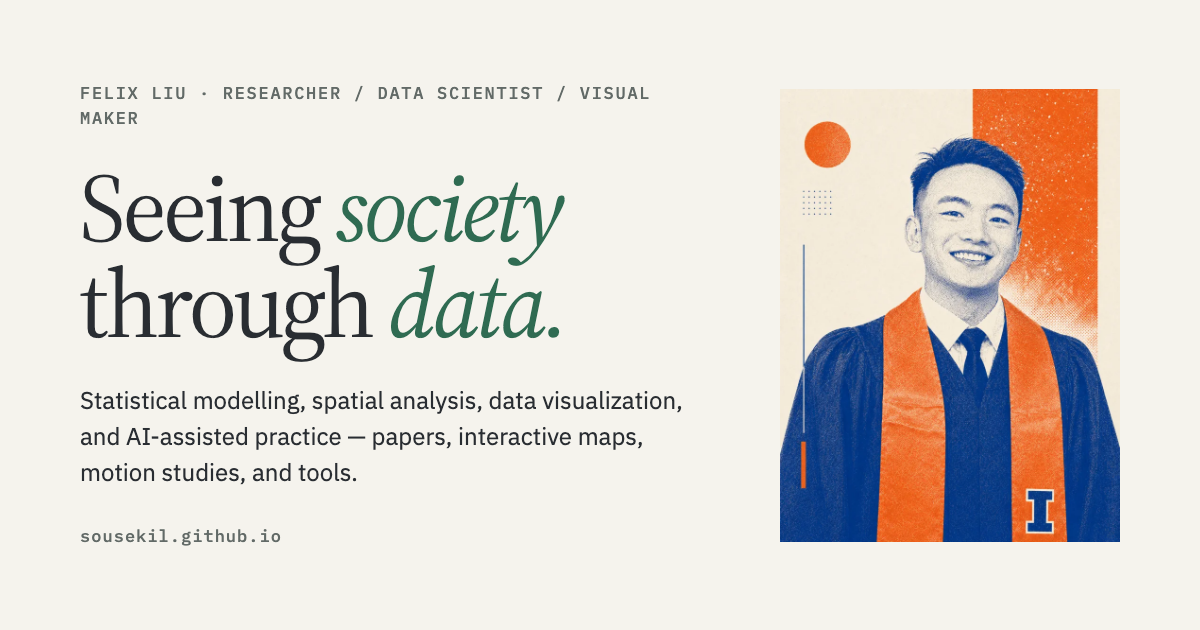
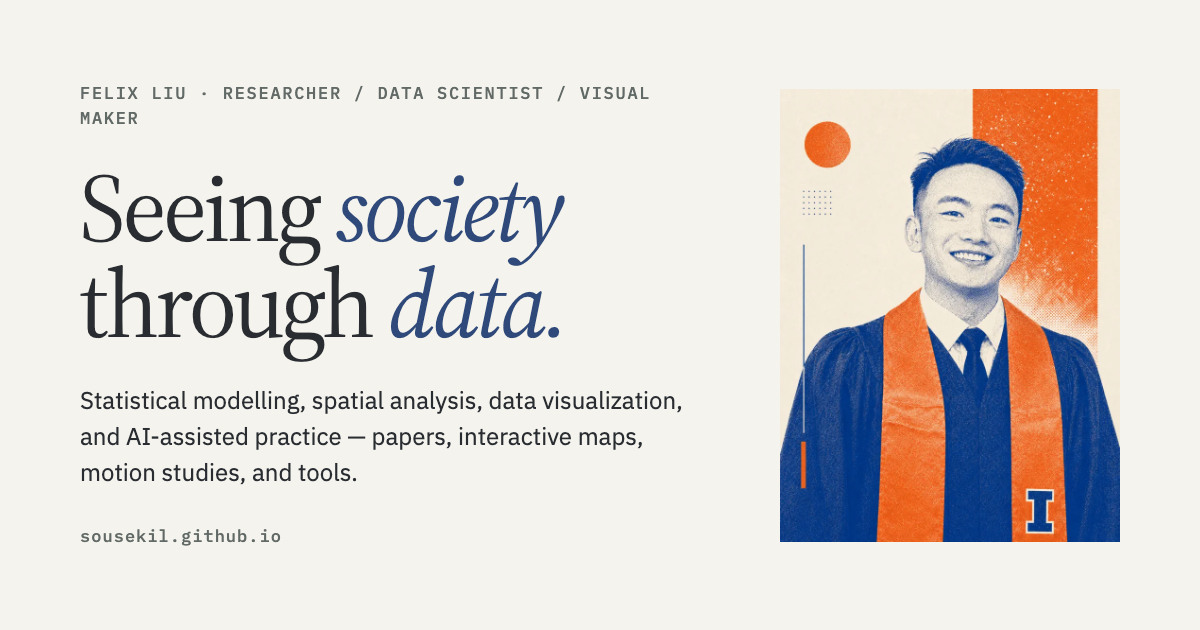
style: switch accent from archive green to gown navy
Light #2f4a7a (contrast 7.9 on paper), dark #8fa8d6 (7.5). OG image re-rendered.

Changed region(s): [[0.2775, 0.2714, 0.4933, 0.4222], [0.3083, 0.4222, 0.4625, 0.5429]]

diff --git a/styles.css b/styles.css
@@ -11,7 +11,7 @@
   --ink: #292d32;
   --muted: #626a67;
   --line: rgba(41, 45, 50, .19);
-  --signal: #2f6b52;
+  --signal: #2f4a7a;
   --blue: #49566d;
   --serif: "Source Serif 4", "Iowan Old Style", "Palatino Linotype", Palatino, Georgia, serif;
   /* Type scale: every size on the homepage is one of these (see homepage.css). */
@@ -230,7 +230,7 @@ dd { margin: .3rem 0 0; color: var(--ink); font-size: .7rem; line-height: 1.6; }
 .site-footer--minimal a { color: var(--muted); font-size: .61rem; font-weight: 700; letter-spacing: .075em; text-decoration: underline; text-decoration-color: var(--signal); text-underline-offset: .25rem; text-transform: uppercase; }
 .site-footer--minimal a:hover { color: var(--signal); }
 
-body.theme-dark { --paper: #151714; --paper-deep: #1f221e; --ink: #ece9e1; --muted: #a9b3ac; --line: rgba(236, 233, 225, .2); --signal: #6fae8f; --blue: #8ba9af; color-scheme: dark; }
+body.theme-dark { --paper: #151714; --paper-deep: #1f221e; --ink: #ece9e1; --muted: #a9b3ac; --line: rgba(236, 233, 225, .2); --signal: #8fa8d6; --blue: #8ba9af; color-scheme: dark; }
 body.theme-dark::before { opacity: .2; }
 body.theme-dark .button { color: var(--paper); background: var(--ink); }
 body.theme-dark .button:hover { color: #fff; background: var(--signal); }

diff --git a/index.html b/index.html
@@ -18,7 +18,7 @@
   <link rel="apple-touch-icon" href="images/apple-touch-icon-180x180.png">
   <title>Felix Liu — Research &amp; Visual Practice</title>
   <link rel="preload" href="assets/fonts/serif/source-serif-4-latin.woff2" as="font" type="font/woff2" crossorigin>
-  <link rel="stylesheet" href="styles.css?v=20260926">
+  <link rel="stylesheet" href="styles.css?v=20260927">
   <link rel="stylesheet" href="homepage.css?v=20260926">
   <script>document.documentElement.classList.add('js');</script>
 </head>
